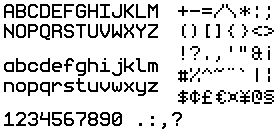
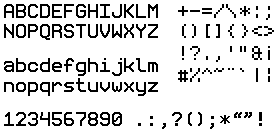
Font upgrade

diff --git a/yds-game-miniquad/src/text.rs b/yds-game-miniquad/src/text.rs
@@ -82,6 +82,13 @@ pub fn string_to_uv(text: &str) -> Vec<TextureUV> {
         (':', TextureUV{u1: X1+12.0*WIDTH, u2: X1+13.0*WIDTH, v1: Y5, v2: Y5+HEIGHT}),
         (',', TextureUV{u1: X1+13.0*WIDTH, u2: X1+14.0*WIDTH, v1: Y5, v2: Y5+HEIGHT}),
         ('?', TextureUV{u1: X1+14.0*WIDTH, u2: X1+15.0*WIDTH, v1: Y5, v2: Y5+HEIGHT}),
+        ('(', TextureUV{u1: X1+15.0*WIDTH, u2: X1+16.0*WIDTH, v1: Y5, v2: Y5+HEIGHT}),
+        (')', TextureUV{u1: X1+16.0*WIDTH, u2: X1+17.0*WIDTH, v1: Y5, v2: Y5+HEIGHT}),
+        (';', TextureUV{u1: X1+17.0*WIDTH, u2: X1+18.0*WIDTH, v1: Y5, v2: Y5+HEIGHT}),
+        ('*', TextureUV{u1: X1+18.0*WIDTH, u2: X1+19.0*WIDTH, v1: Y5, v2: Y5+HEIGHT}),
+        ('“', TextureUV{u1: X1+19.0*WIDTH, u2: X1+20.0*WIDTH, v1: Y5, v2: Y5+HEIGHT}),
+        ('”', TextureUV{u1: X1+20.0*WIDTH, u2: X1+21.0*WIDTH, v1: Y5, v2: Y5+HEIGHT}),
+        ('!', TextureUV{u1: X1+21.0*WIDTH, u2: X1+22.0*WIDTH, v1: Y5, v2: Y5+HEIGHT}),
     ]);
 
     let mut coords = Vec::new();

diff --git a/yds-game-miniquad/src/stage.rs b/yds-game-miniquad/src/stage.rs
@@ -193,7 +193,7 @@ impl Stage {
         self.text = vec![
             format!("FPS: {:.0},", fps+1.0),
             format!("Quads drawn: {},", self.mesh_main.num),
-            format!("Player moving? {}.", self.player.movement.moving),
+            format!("Player moving: {}.", self.player.movement.moving),
         ];
     }
 
